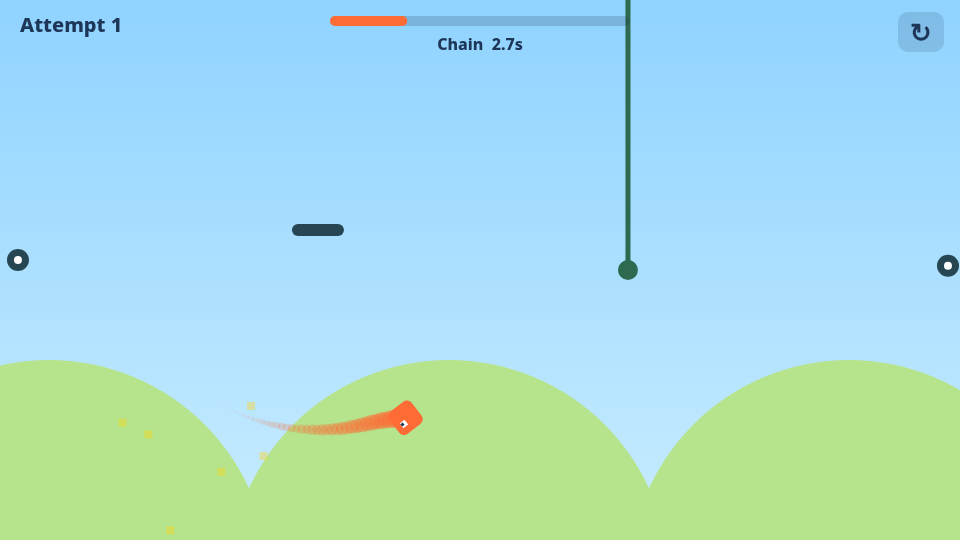
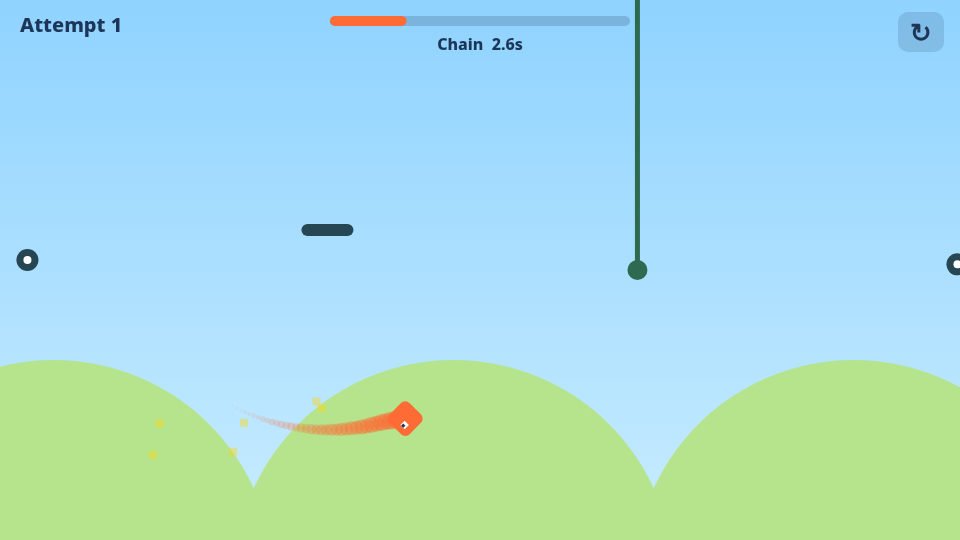
Release boost: +80px/s forward on letting go, with puff particles

diff --git a/sim.js b/sim.js
@@ -1,6 +1,6 @@
 // Swing — pure simulation (shared by game + tests)
 (function(root){
-const G=1500, RUN=330, R=14, GRAB_R=200, PUMP=2.5, VMAX=900, DT=1/120, BUF=0.15;
+const G=1500, RUN=330, R=14, GRAB_R=200, PUMP=2.5, VMAX=900, DT=1/120, RELEASE_BOOST=80, BUF=0.15;
 const LEVELS=[
  {name:"Warm-up", finish:3350,
   ground:[[0,700],[1050,1500],[1860,2650],[3050,3500]], groundY:420,
@@ -23,7 +23,7 @@ function nearest(s){const L=LEVELS[s.li],p=s.p;let best=-1,bd=GRAB_R;
 function attach(s,i){const p=s.p,q=hookPos(LEVELS[s.li].hooks[i],s.t),dx=p.x-q.x,dy=p.y-q.y;
  p.len=Math.hypot(dx,dy);p.th=Math.atan2(dx,dy);if(p.mode==='ground'){const mx=LEVELS[s.li].groundY-R-q.y-6;if(p.len>mx){p.len=Math.max(50,mx);p.x=q.x+p.len*Math.sin(p.th);p.y=q.y+p.len*Math.cos(p.th);}}const tx=Math.cos(p.th),ty=-Math.sin(p.th);
  p.w=(p.vx*tx+p.vy*ty)/p.len;p.mode='swing';p.hook=i;}
-function release(s){const p=s.p;p.vx=p.len*p.w*Math.cos(p.th);p.vy=-p.len*p.w*Math.sin(p.th);p.mode='air';s.last=p.hook;p.hook=-1;}
+function release(s){const p=s.p;p.vx=p.len*p.w*Math.cos(p.th);p.vy=-p.len*p.w*Math.sin(p.th);p.vx+=RELEASE_BOOST;p.mode='air';s.last=p.hook;p.hook=-1;}
 function step(s,inp){if(s.dead||s.done)return s;const L=LEVELS[s.li],p=s.p,ev=[];const t0=s.t;s.t+=DT;
  // hold to grab: while held and not attached, catch the first reachable point; letting go launches
  if(p.mode==='swing'&&!inp.grab){release(s);ev.push('release');}
@@ -44,6 +44,6 @@ function step(s,inp){if(s.dead||s.done)return s;const L=LEVELS[s.li],p=s.p,ev=[]
  if(p.y>900){s.dead=true;ev.push('die');}
  if(!s.dead&&p.x>=L.finish){s.done=true;ev.push('done');}
  s.ev=ev;return s;}
-const api={BUF,G,RUN,R,GRAB_R,DT,LEVELS,create,step,nearest,hookPos,platX,solids,release,attach};
+const api={RELEASE_BOOST,BUF,G,RUN,R,GRAB_R,DT,LEVELS,create,step,nearest,hookPos,platX,solids,release,attach};
 if(typeof module!=='undefined')module.exports=api;else root.SwingSim=api;
 })(this);

diff --git a/test/physics.js b/test/physics.js
@@ -11,8 +11,8 @@ const S=require('../sim.js');const assert=require('assert');let n=0;const ok=(c,
 // release tangential velocity
 {const s=S.create(0);s.p.mode='air';s.p.x=830-100;s.p.y=370;s.p.vx=300;s.p.vy=0;S.step(s,{grab:true,dir:0});for(let i=0;i<20;i++)S.step(s,{grab:true,dir:0});
  const p=s.p,th=p.th,w=p.w,L=p.len;S.step(s,{grab:false,dir:0});const ex=L*w*Math.cos(th),ey=-L*w*Math.sin(th);
- ok(s.p.mode==='air'&&Math.abs(s.p.vx-ex)<1&&Math.abs(s.p.vy-(ey+S.G*S.DT))<1,`release launches tangentially v=(${s.p.vx.toFixed(0)},${s.p.vy.toFixed(0)})`);
- const r=[s.p.x-830,s.p.y-270];ok(Math.abs(r[0]*s.p.vx+r[1]*(s.p.vy-S.G*S.DT))/Math.hypot(...r)/Math.hypot(s.p.vx,s.p.vy)<0.05,'launch velocity perpendicular to rope');}
+ ok(s.p.mode==='air'&&Math.abs(s.p.vx-(ex+S.RELEASE_BOOST))<1&&Math.abs(s.p.vy-(ey+S.G*S.DT))<1,`release launches tangentially v=(${s.p.vx.toFixed(0)},${s.p.vy.toFixed(0)})`);
+ const r=[s.p.x-830,s.p.y-270];ok(Math.abs(r[0]*(s.p.vx-S.RELEASE_BOOST)+r[1]*(s.p.vy-S.G*S.DT))/Math.hypot(...r)/Math.hypot(s.p.vx-S.RELEASE_BOOST,s.p.vy)<0.05,'launch velocity perpendicular to rope');}
 // pumping increases amplitude
 {const run=d=>{const s=S.create(0);s.p.mode='air';s.p.x=830-60;s.p.y=270+150;s.p.vx=0;s.p.vy=0;S.attach(s,0);let m=0;for(let i=0;i<600;i++){S.step(s,{grab:true,dir:d*Math.sign(s.p.w||1)});m=Math.max(m,Math.abs(s.p.th));}return m;};
  const a=run(0),b=run(1);ok(b>a*1.3,`pumping raises swing amplitude ${a.toFixed(2)}→${b.toFixed(2)} rad`);}

diff --git a/main.js b/main.js
@@ -47,7 +47,7 @@ function tickInner(now){let dt=Math.min(.05,(now-last)/1000);last=now;if(screen=
   if(s.dead){deathT-=S.DT;if(deathT<=0&&!bot)restart();else if(deathT<=0){bot=null;}continue;}
   if(s.done)break;
   S.step(s,inp);
-  for(const e of s.ev){if(e==='grab'){blip(660,.08);burst(s.p.x,s.p.y,C.hi,6);}if(e==='release'){blip(440,.1,'triangle');}if(e==='land')blip(220,.06);
+  for(const e of s.ev){if(e==='grab'){blip(660,.08);burst(s.p.x,s.p.y,C.hi,6);}if(e==='release'){blip(440,.1,'triangle');for(let i=0;i<8;i++)parts.push({x:s.p.x-10,y:s.p.y+(Math.random()-.5)*14,vx:-140-Math.random()*120,vy:(Math.random()-.5)*60,l:.3,col:'#ffffff'});}if(e==='land')blip(220,.06);
    if(e==='die'){blip(110,.3,'sawtooth');burst(s.p.x,s.p.y,C.player,30);deathT=.45;}
    if(e==='done'){blip(880,.15);setTimeout(()=>blip(1320,.25),120);burst(s.p.x,s.p.y,C.hi,50);const t=s.t;if(!best[li]||t<best[li])best[li]=t;screen='done';sel=0;doneT=t;}}
   if(s.p.mode!=='ground')trail.push({x:s.p.x,y:s.p.y,l:.35});
